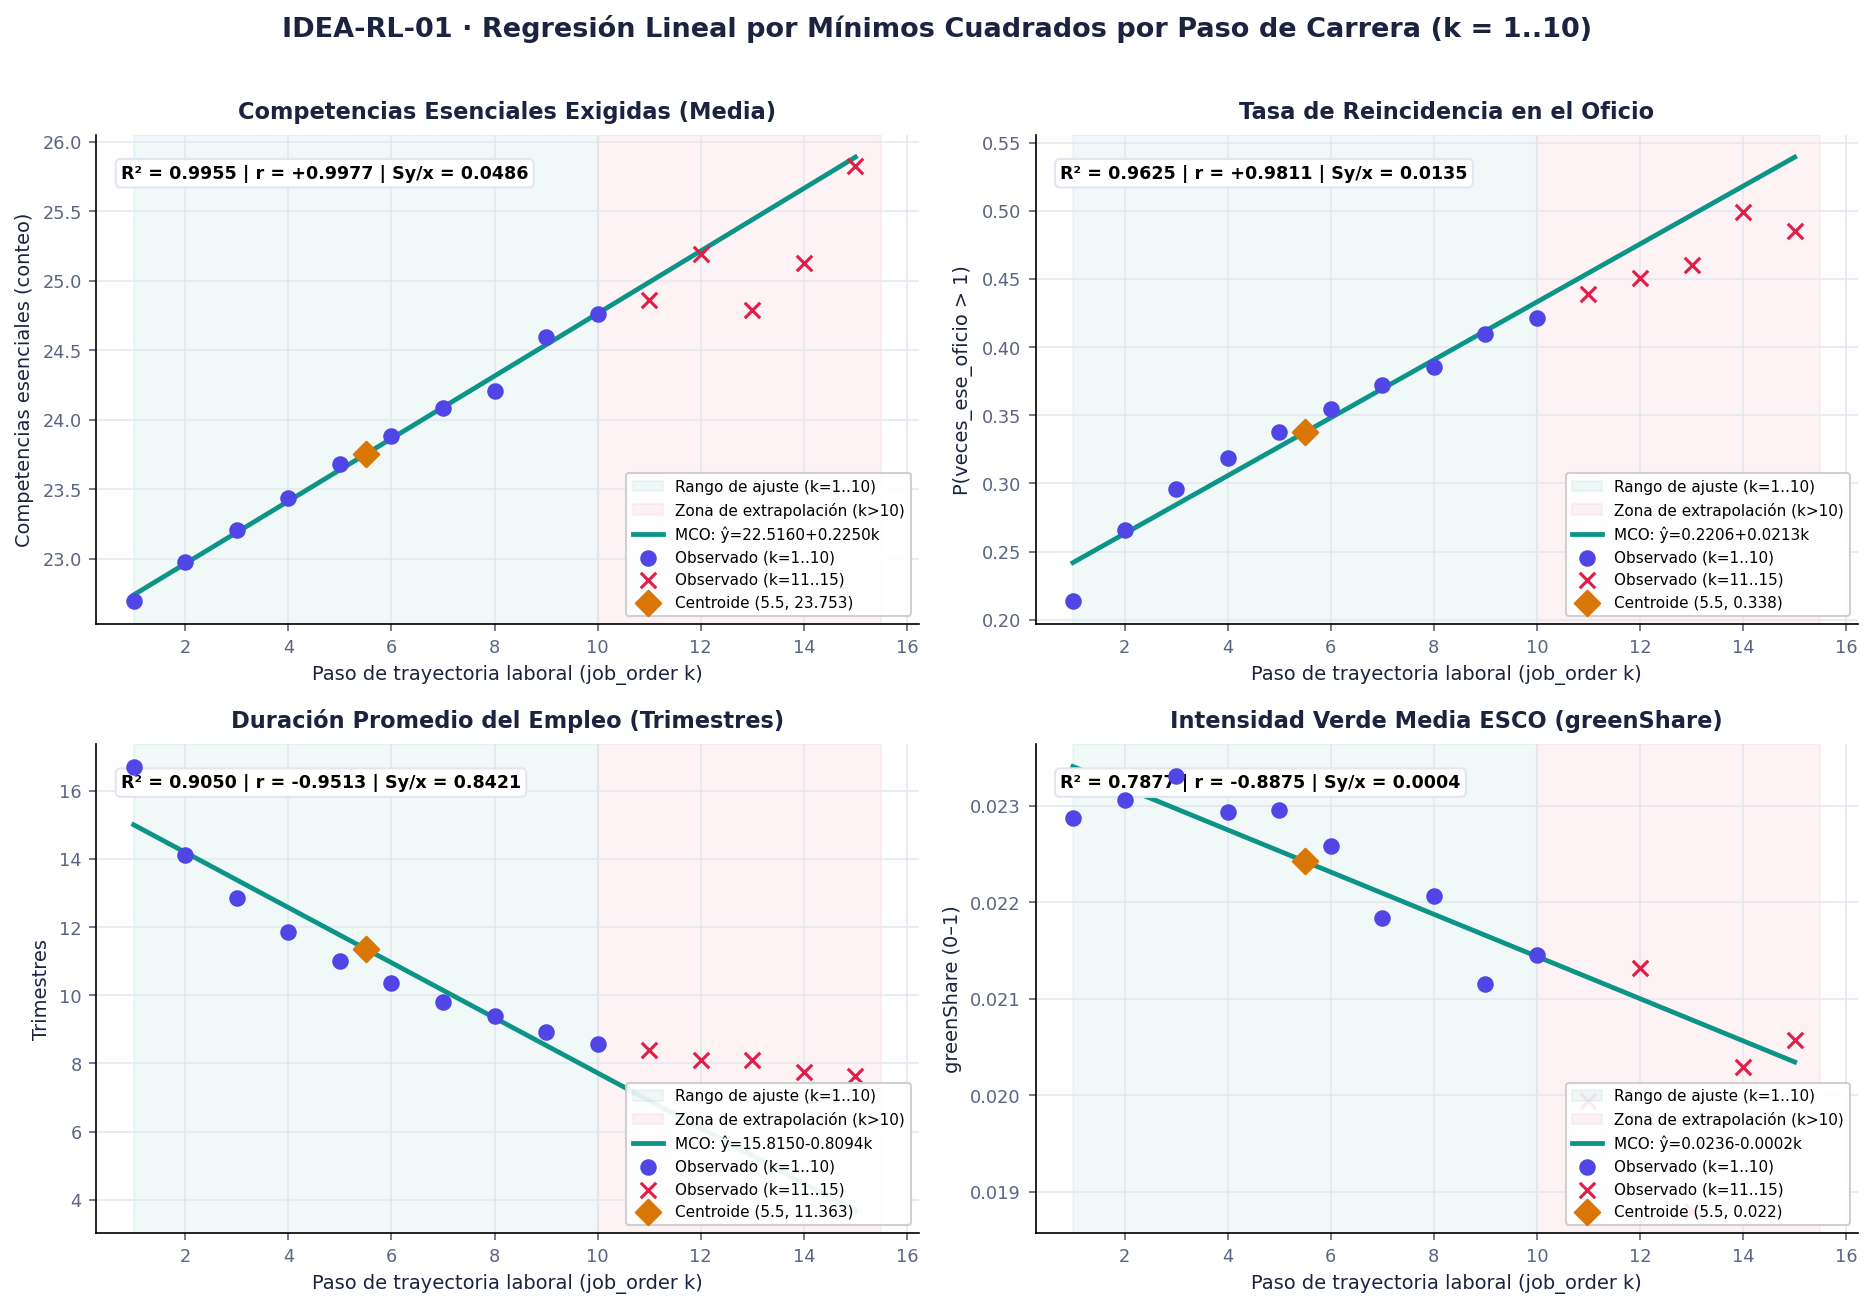
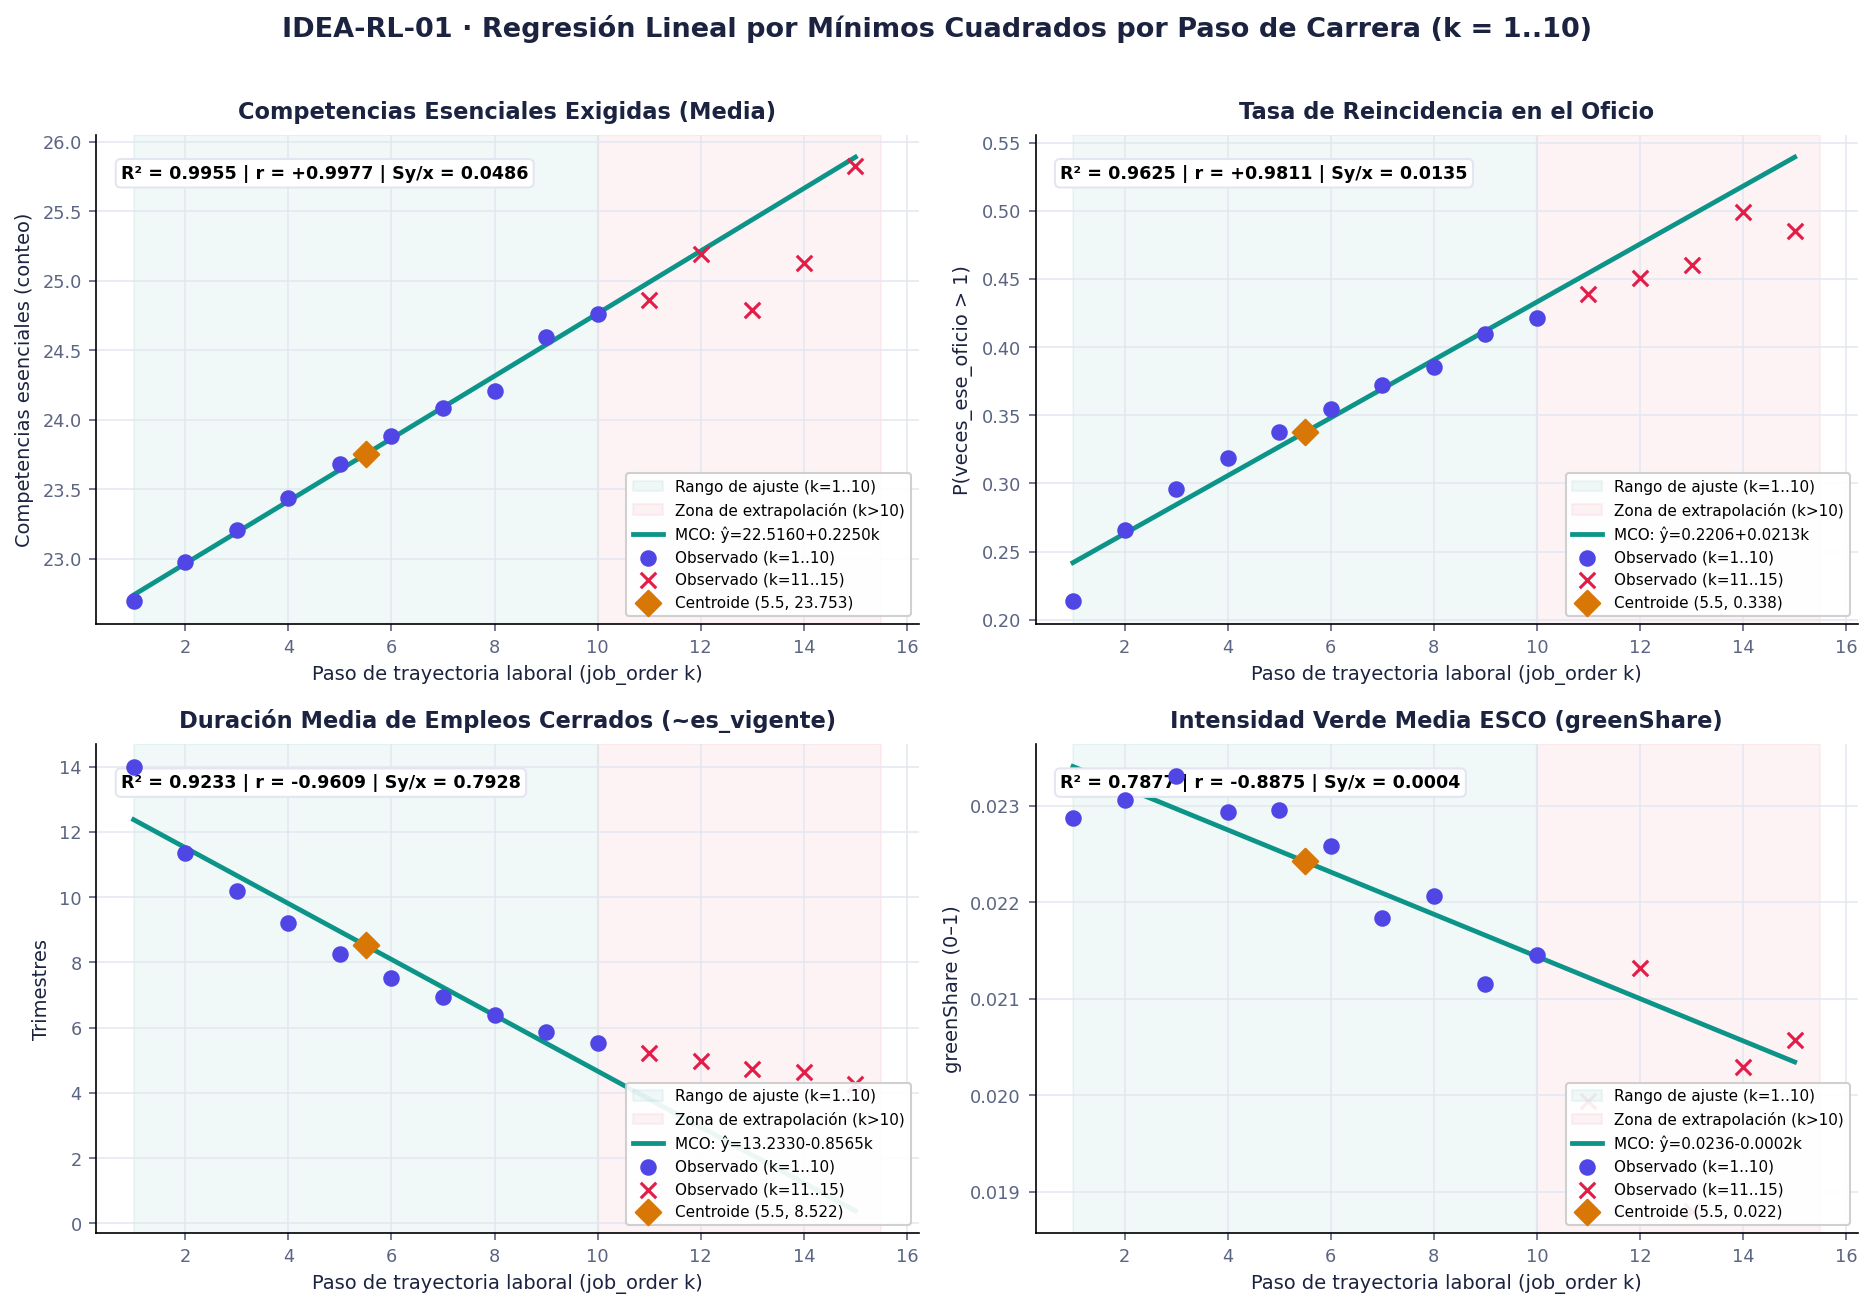
feat(reportes): regenerar tablas V2, monomios, 12 figuras, scripts GeoGebra y bitácora

diff --git a/reports/metodos_numericos_jobpath/verification_log.md b/reports/metodos_numericos_jobpath/verification_log.md
@@ -1,12 +1,15 @@
 # Verification Log — JobPath Numerical Methods 8-Idea Core Suite
 
-- **Timestamp:** `2026-11-19 23:17:11`
+- **Timestamp:** `2026-11-21 23:12:35`
 - **Selected Scope:** 8-Idea Core (`IDEA-RL-01`, `IDEA-RL-02`, `IDEA-RL-04`, `IDEA-RL-05`, `IDEA-LG-01`, `IDEA-LG-02`, `IDEA-HYB-01`, `IDEA-HYB-02`)
-- **Read-Only `data/` Integrity (SHA-256):** `PASS (100% intact)` (19 audited inputs)
+- **Read-Only `data/` Integrity (SHA-256, 64-char hex):** `PASS (100% intact)` (19 audited inputs: 13 full SHA-256 + 6 sampled 24 MiB+meta SHA-256)
+- **Censoring Consistency (`MR-09` `~es_vigente`):** `PASS` (`mean_dur_q` computed strictly on closed jobs across `RL-01`, `RL-04`, and `LG-01`)
+- **Live PCA Source (`IDEA-LG-02`):** `live_50k_from_03_processed_float64` (computed directly from `data/03_processed`, zero hardcoded curves)
 - **Approved Figures Generated:** `PASS` (12/12 PNGs at 150 DPI)
 - **GeoGebra Verification Pack:** `PASS` (5 `.txt` scripts + Markdown index)
-- **Max OLS Diff vs. `numpy.polyfit`:** relative `6.976e-14` (`PASS < 1e-10`) · raw abs `1.523e-07` (on uncentered `n_starts` intercept `|a0| = 2.183e6`)
+- **Bilingual Wording Audit (`MR-07/MR-08` EN+ES):** `PASS` (28 files scanned, 0 violations)
+- **Max OLS Diff vs. `numpy.polyfit`:** relative `2.294e-12` (`PASS < 1e-10`) · raw abs `1.523e-07` (on uncentered year intercept `|a0| ~ 2.18e6`)
 - **Max Affine Scale-Invariance Error (`04_transformed`):** `7.216e-14` (threshold `< 1e-10`)
 - **Lagrange `LG-01` P3 SciPy Diff:** `5.052e-15` | Kronecker: `0.000e+00` | Partition of Unity: `4.441e-16`
-- **Runge's Phenomenon Verification (deg=16):** Equispaced `E_inf = 2.5262` vs. Chebyshev-Snapped `E_inf = 0.1334` (`18.9x` error reduction)
+- **Runge's Phenomenon Verification (deg=16, Chebyshev-Lobatto):** Equispaced `E_inf = 2.5262` vs. Chebyshev-Lobatto `E_inf = 0.1301` (`19.4x` error reduction, `0` total `[0,1]` violations across degrees 3–16)
 - **PCA Plateau Distinct-Node Guard (`MR-04`):** `TRIGGERED` (`Interpolation nodes x_i must be strictly distinct (min gap = 0.000e+00 < 1.0e-12).`)

diff --git a/reports/metodos_numericos_jobpath/geogebra/geogebra_verification_index.md b/reports/metodos_numericos_jobpath/geogebra/geogebra_verification_index.md
@@ -5,7 +5,7 @@ Open [GeoGebra Classic](https://www.geogebra.org/classic) and paste the commands
 | Case Study | File | Method | Expected Key Output (Python Verified `< 1e-10`) |
 |---|---|---|---|
 | `IDEA-RL-01` | `ggb_rl01_career_steps_skills.txt` | OLS `FitLine` | `a0 = 22.516043`, `a1 = 0.224971`, `R2 = 0.995498`, `f(12) = 25.215697` |
-| `IDEA-RL-02` | `ggb_rl02_isco10_transferability.txt` | OLS `FitLine` | `a0 = 3.448113`, `a1 = 0.432990`, `R2 = 0.280010` |
-| `IDEA-RL-04` | `ggb_rl04_annual_duration_extrapolation.txt` | OLS `FitLine` | `a0 = 18.596288`, `a1 = -0.709603`, `R2 = 0.928761`, `f(27) = -0.563000` (negative!) |
+| `IDEA-RL-02` | `ggb_rl02_isco10_transferability.txt` | OLS `FitLine` (`MR-06` Rejected) | `a0 = 3.448113`, `a1 = 0.432990`, `R2 = 0.280010` (`< 0.30`: `f(45)` solo verificación aritmética) |
+| `IDEA-RL-04` | `ggb_rl04_annual_duration_extrapolation.txt` | OLS `FitLine` (`MR-09` `~es_vigente`) | `a0 = 16.441713`, `a1 = -0.792601`, `R2 = 0.972874`, `f(27) = -4.958505` (negative!) |
 | `IDEA-LG-01` | `ggb_lg01_survival_p3_milestones.txt` | Lagrange `P3` vs `Polynomial(P)` | `P3(12) = 0.206491` (true `S(12) = 0.251949`) |
 | `IDEA-LG-02` | `ggb_lg02_pca_forward_p3.txt` | Lagrange `P3` vs `Polynomial(P)` | `P3(4) = 0.877777` (true `V(4) = 0.877604`) |
